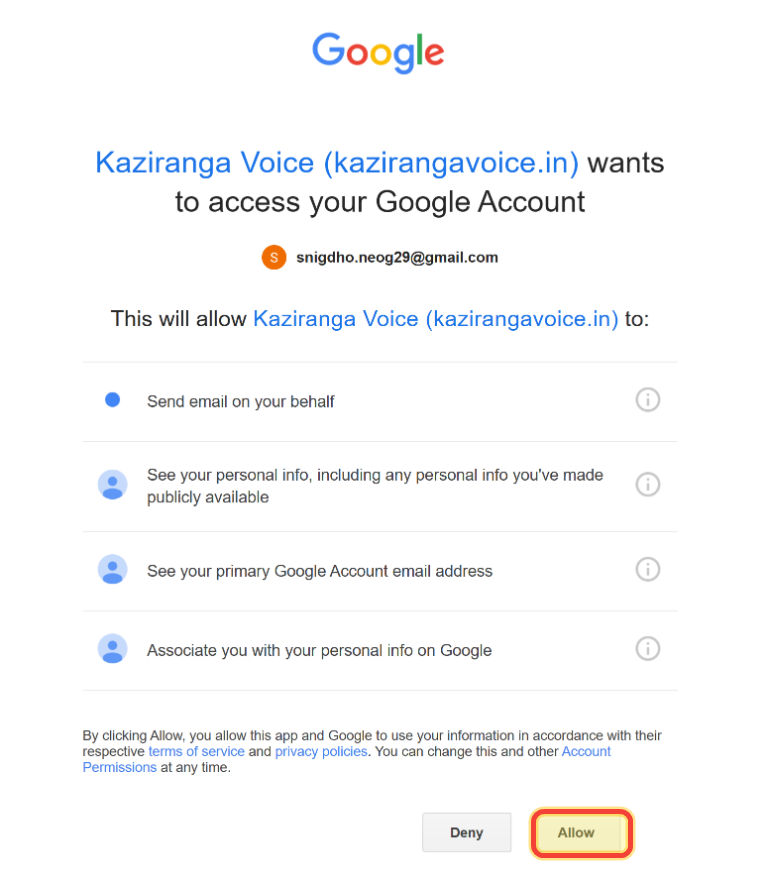
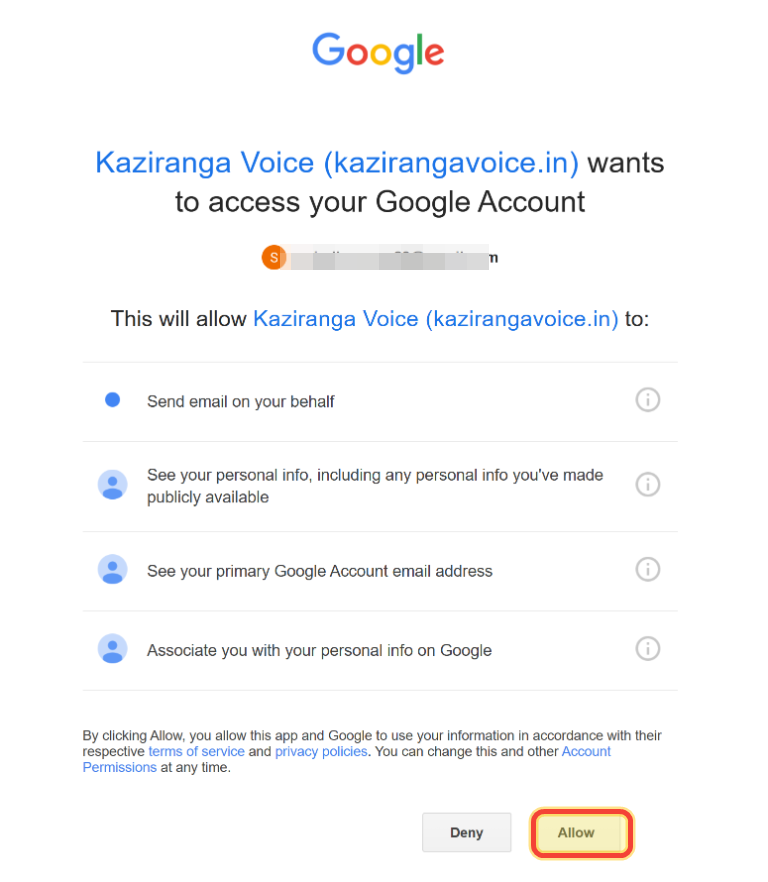
Added demo on /app route

Changed region(s): [[0.3438, 0.2755, 0.6562, 0.3061]]

diff --git a/App.tsx b/App.tsx
@@ -1,5 +1,5 @@
 import React, { useEffect, useState } from 'react';
-import { SafeAreaView, StyleSheet, StatusBar, Alert, View, Text, TouchableOpacity, ActivityIndicator } from 'react-native';
+import { SafeAreaView, StyleSheet, StatusBar, Alert, View, Text, TouchableOpacity, ActivityIndicator, ScrollView, Image } from 'react-native';
 import { onAuthStateChanged, signOut as firebaseSignOut } from 'firebase/auth';
 import EmailComposerScreen from './src/screens/EmailComposerScreen';
 import { COLORS } from './src/config/theme';
@@ -67,7 +67,7 @@ export default function App() {
     return (
       <SafeAreaView style={styles.root}>
         <StatusBar barStyle="dark-content" backgroundColor={COLORS.background} />
-        <View style={styles.center}>
+        <ScrollView contentContainerStyle={styles.signInScroll} showsVerticalScrollIndicator={false}>
           {signingIn ? (
             <ActivityIndicator size="large" color={COLORS.primary ?? '#2D6A4F'} />
           ) : (
@@ -78,9 +78,41 @@ export default function App() {
               <TouchableOpacity style={styles.signInBtn} onPress={handleSignIn}>
                 <Text style={styles.signInText}>🔑  Sign in with Google</Text>
               </TouchableOpacity>
+              <View style={styles.demoSection}>
+                <Text style={styles.demoTitle}>What signing in looks like</Text>
+                <Text style={styles.demoText}>
+                  These are the Google screens you'll see before Kaziranga Voice can send emails on your behalf.
+                </Text>
+                <View style={styles.demoGrid}>
+                  <View style={styles.demoCard}>
+                    <Image
+                      source={require('./assets/google-auth-account-blurred.png')}
+                      style={styles.demoImage}
+                      resizeMode="cover"
+                    />
+                    <Text style={styles.demoCaption}>Choose the Google account you want to use.</Text>
+                  </View>
+                  <View style={styles.demoCard}>
+                    <Image
+                      source={require('./assets/google-auth-consent-highlighted.png')}
+                      style={styles.demoImage}
+                      resizeMode="cover"
+                    />
+                    <Text style={styles.demoCaption}>Review the permissions and tap Allow to continue.</Text>
+                  </View>
+                </View>
+                <View style={styles.demoNote}>
+                  <Text style={styles.demoNoteTitle}>What you're signing up for:</Text>
+                  <Text style={styles.demoNoteBody}>
+                    You are allowing Kaziranga Voice to use your Google account to send advocacy emails and keep a
+                    record of successful sends. You can disconnect Google access and delete your saved details yourself
+                    later.
+                  </Text>
+                </View>
+              </View>
             </>
           )}
-        </View>
+        </ScrollView>
       </SafeAreaView>
     );
   }
@@ -100,7 +132,13 @@ export default function App() {
 
 const styles = StyleSheet.create({
   root: { flex: 1, backgroundColor: COLORS.background },
-  center: { flex: 1, justifyContent: 'center', alignItems: 'center', gap: 24 },
+  signInScroll: {
+    flexGrow: 1,
+    justifyContent: 'center',
+    alignItems: 'center',
+    gap: 20,
+    padding: 20,
+  },
   greeting: { fontSize: 18, color: '#333', textAlign: 'center', paddingHorizontal: 24 },
   signInBtn: {
     backgroundColor: '#2D6A4F',
@@ -109,4 +147,73 @@ const styles = StyleSheet.create({
     borderRadius: 8,
   },
   signInText: { color: '#fff', fontSize: 16, fontWeight: '600' },
+  demoSection: {
+    width: '100%',
+    maxWidth: 980,
+    marginTop: 10,
+    gap: 12,
+  },
+  demoTitle: {
+    fontSize: 20,
+    fontWeight: '700',
+    color: '#1B5E20',
+    textAlign: 'center',
+  },
+  demoText: {
+    fontSize: 14,
+    color: '#666',
+    textAlign: 'center',
+    lineHeight: 20,
+  },
+  demoGrid: {
+    flexDirection: 'row',
+    flexWrap: 'wrap',
+    gap: 14,
+    justifyContent: 'center',
+  },
+  demoCard: {
+    width: 340,
+    maxWidth: '100%',
+    backgroundColor: '#fff',
+    borderRadius: 14,
+    padding: 12,
+    borderWidth: 1,
+    borderColor: '#E9E9E9',
+    shadowColor: '#000',
+    shadowOpacity: 0.08,
+    shadowRadius: 8,
+    shadowOffset: { width: 0, height: 2 },
+    elevation: 2,
+  },
+  demoImage: {
+    width: '100%',
+    height: 340,
+    borderRadius: 10,
+    backgroundColor: '#F4F4F4',
+  },
+  demoCaption: {
+    marginTop: 10,
+    fontSize: 13,
+    color: '#444',
+    lineHeight: 18,
+    textAlign: 'center',
+  },
+  demoNote: {
+    backgroundColor: '#FFF7ED',
+    borderLeftWidth: 4,
+    borderLeftColor: '#F57C00',
+    borderRadius: 12,
+    padding: 14,
+  },
+  demoNoteTitle: {
+    fontSize: 15,
+    fontWeight: '700',
+    color: '#1B5E20',
+    marginBottom: 6,
+  },
+  demoNoteBody: {
+    fontSize: 14,
+    color: '#234',
+    lineHeight: 20,
+  },
 });

diff --git a/public/landing-index.html b/public/landing-index.html
@@ -376,62 +376,6 @@
         .story-card.story-blue {
             border-left-color: #2b7fff;
         }
-        .auth-preview-section {
-            max-width: 1100px;
-            margin: 40px auto;
-            padding: 0 20px;
-        }
-        .auth-preview-header {
-            text-align: center;
-            margin-bottom: 18px;
-        }
-        .auth-preview-header h2 {
-            margin-bottom: 8px;
-        }
-        .auth-preview-header p {
-            color: #666;
-            font-size: 1em;
-        }
-        .auth-preview-grid {
-            display: grid;
-            grid-template-columns: repeat(auto-fit, minmax(260px, 1fr));
-            gap: 18px;
-            align-items: start;
-        }
-        .auth-preview-card {
-            background: #fff;
-            border-radius: 14px;
-            padding: 14px;
-            box-shadow: 0 2px 10px rgba(0, 0, 0, 0.08);
-            border: 1px solid #ececec;
-        }
-        .auth-preview-card img {
-            width: 100%;
-            display: block;
-            border-radius: 12px;
-            border: 1px solid #e0e0e0;
-        }
-        .auth-preview-card figcaption {
-            margin-top: 10px;
-            font-size: 0.92em;
-            color: #444;
-            line-height: 1.5;
-        }
-        .auth-note {
-            margin-top: 18px;
-            background: #fff7ed;
-            border-left: 4px solid #f57c00;
-            border-radius: 12px;
-            padding: 16px 18px;
-            color: #1b5e20;
-            box-shadow: 0 1px 8px rgba(0, 0, 0, 0.06);
-            line-height: 1.6;
-        }
-        .auth-note strong {
-            display: block;
-            margin-bottom: 6px;
-            font-size: 1.02em;
-        }
         .steps-container {
             max-width: 900px;
             margin: 0 auto;
@@ -645,27 +589,6 @@
                     >📸 @savekaziranga</a>
                 </div>
             </div>
-        </div>
-    </div>
-
-    <div class="auth-preview-section">
-        <div class="auth-preview-header">
-            <h2>What signing in looks like</h2>
-            <p>These are the Google screens you'll see before Kaziranga Voice can send emails on your behalf.</p>
-        </div>
-        <div class="auth-preview-grid">
-            <figure class="auth-preview-card">
-                <img src="/google-auth-account-blurred.png" alt="Google account chooser with personal profile blurred">
-                <figcaption>1. Choose the Google account you want to use.</figcaption>
-            </figure>
-            <figure class="auth-preview-card">
-                <img src="/google-auth-consent-highlighted.png" alt="Google consent screen with the Allow button highlighted">
-                <figcaption>2. Review the permissions and tap Allow to continue.</figcaption>
-            </figure>
-        </div>
-        <div class="auth-note">
-            <strong>What you're signing up for:</strong>
-            You are allowing Kaziranga Voice to use your Google account to send advocacy emails and keep a record of successful sends. You can disconnect Google access and request deletion of your saved details later.
         </div>
     </div>
 
